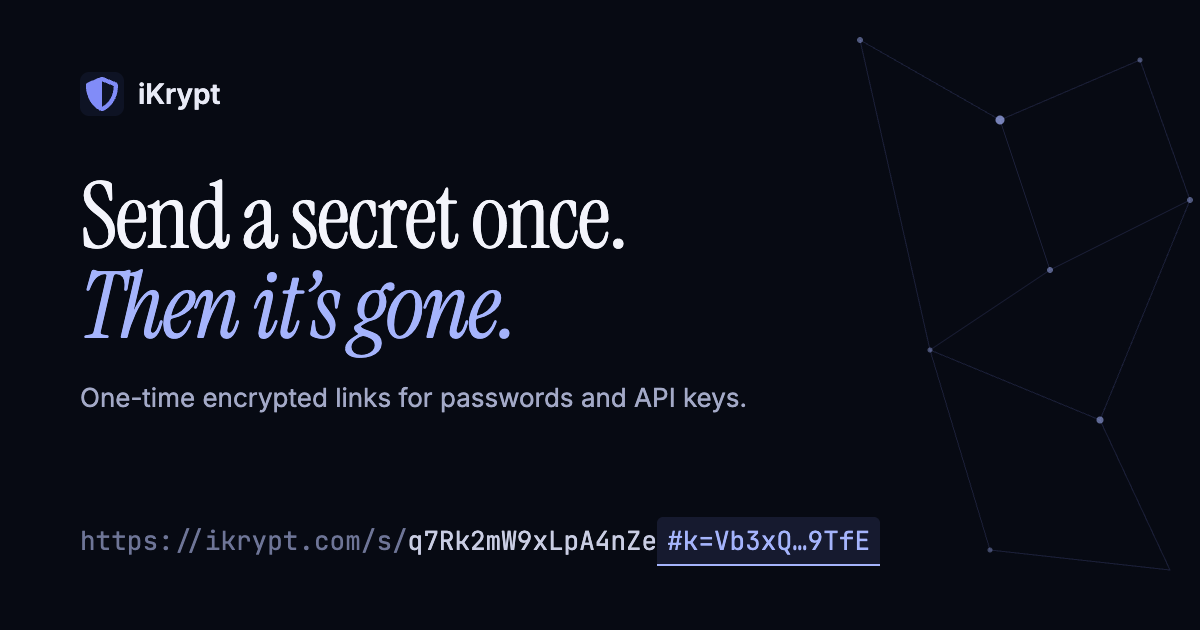
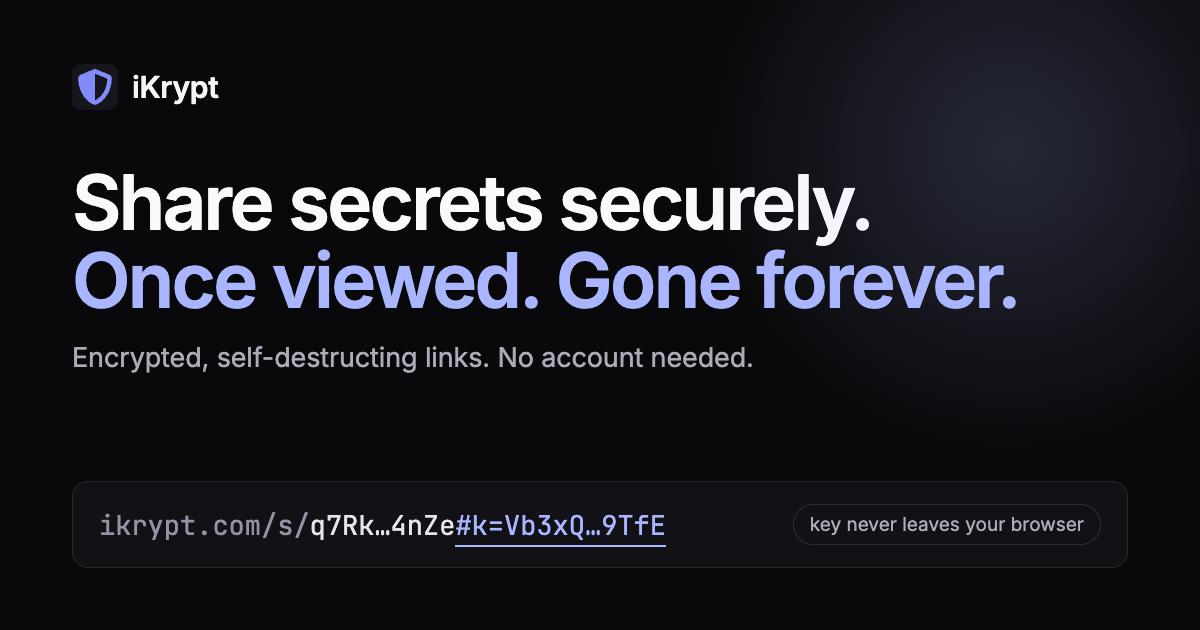
Fix homepage contrast (CI) and licence wording; new share image matching the redesign
- ProductStage: #777985 -> #9393A6 (4.22:1 -> 6.05:1), fixing the axe
  failure that turned CI red on main; 'Open source' -> 'Public source'
  (the repo has no licence; owner decision).
- public/og-image.png re-rendered in the new Inter / near-black look.
- CHANGES.md / TO-DO.md updated (homepage follow-ups, content depth).
- 65/65 e2e, 11/11 unit, lint clean.

diff --git a/src/components/ProductStage.tsx b/src/components/ProductStage.tsx
@@ -21,12 +21,12 @@ export default function ProductStage() {
         </div>
         <div className="ikrypt-product-body">
           <aside className="ikrypt-product-sidebar">
-            <div className="mb-9 text-xs font-medium uppercase tracking-[0.16em] text-[#777985]">Workspace</div>
+            <div className="mb-9 text-xs font-medium uppercase tracking-[0.16em] text-[#9393A6]">Workspace</div>
             <div className="rounded-lg bg-[#25262D] px-4 py-3 text-[#F3F3F5]">◇ &nbsp; Create a secret</div>
             <div className="px-4 py-3 text-[#9B9CA9]">⌁ &nbsp; How it works</div>
             <div className="px-4 py-3 text-[#9B9CA9]">⌗ &nbsp; Security</div>
-            <div className="mt-12 border-t border-[#2C2D33] pt-6 text-xs leading-6 text-[#777985]">
-              Browser-based encryption<br />Open source · No sign-up
+            <div className="mt-12 border-t border-[#2C2D33] pt-6 text-xs leading-6 text-[#9393A6]">
+              Browser-based encryption<br />Public source · No sign-up
             </div>
           </aside>
           <div className="ikrypt-product-main">

diff --git a/CHANGES.md b/CHANGES.md
@@ -3,6 +3,16 @@
 Everything implemented, changed, deleted, deployed, verified or configured, newest first.
 Code-level detail is in the git history; this file is the human-readable log.
 
+## 2026-11-22 (later)
+
+- **Codex homepage redesign reviewed** (15 commits pushed directly to `main`, live): Inter-only,
+  near-black, angled product illustration, form below the hero. CI was failing on it (axe colour
+  contrast on 12 px grey text in the illustration: 4.22:1).
+- **Fixed on branch `fix/og-image-and-ci`:** illustration grey `#777985` → `#9393A6` (6.05:1);
+  "Open source" → "Public source" in the illustration (repo has no licence, per owner decision).
+- **New share image** (`public/og-image.png`) matching the new homepage look.
+- Full suite green again: 65 e2e, 11 unit, lint clean.
+
 ## 2026-11-22
 
 - **Vercel (owner):** deleted the six unused `NEXT_PUBLIC_FIREBASE_*` environment variables (no code

diff --git a/TO-DO.md b/TO-DO.md
@@ -41,6 +41,13 @@ Owner = needs dashboard access or a decision; Dev = code work.
 
 ## Design
 
+- [ ] **Homepage (Codex version) follow-ups:** the real form sits below a non-interactive product
+  illustration (on phones well below the fold); class/comment names refer to "Linear" (rename and make
+  sure the composition is our own, not a copy of linear.app); hero says "Once viewed. Gone forever."
+  although 3- and 5-view links exist; `docs/to-do.md` duplicates this file.
+- [ ] **Content depth:** About (≈360 words) needs real who/why/how; Blog index (≈190) needs an intro;
+  the four guides (720–880 words, ~10–14% shared text) would benefit from concrete, unique how-tos.
+
 - [ ] **Hero font/colour variants for comparison** (planned 22 Nov): current design vs pure black with
   Space Grotesk headlines vs a more technical monospace-headline version. Pick one; apply site-wide via
   tokens.
